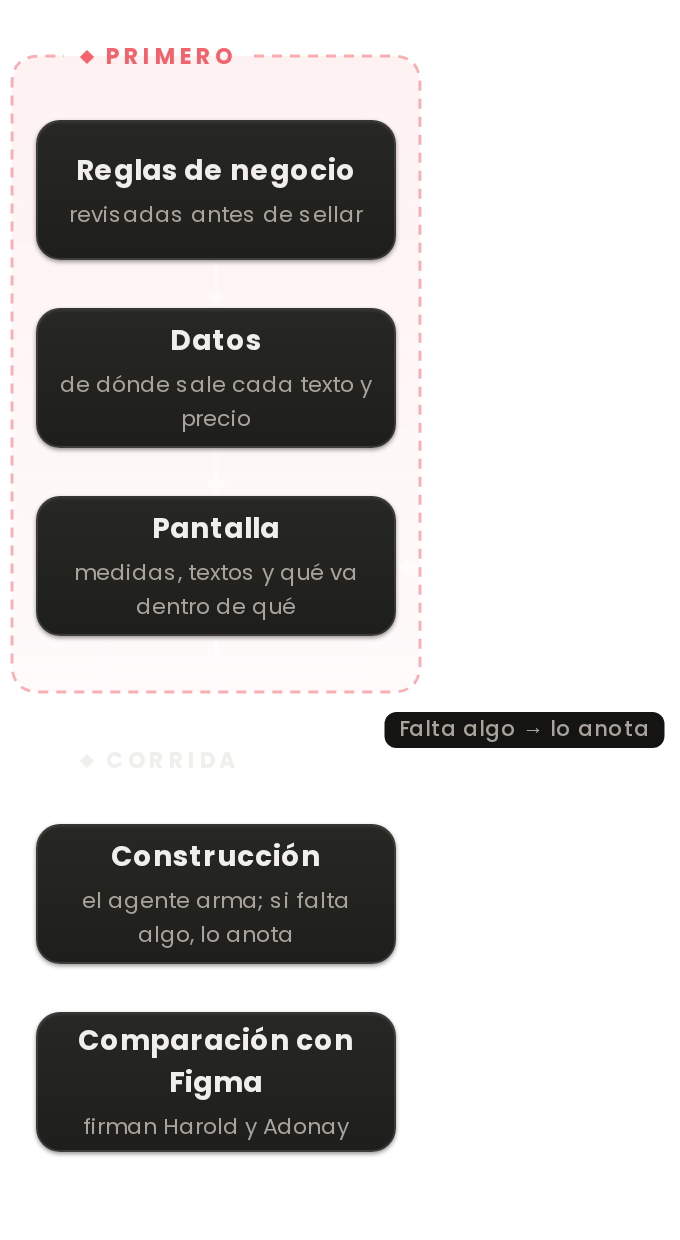
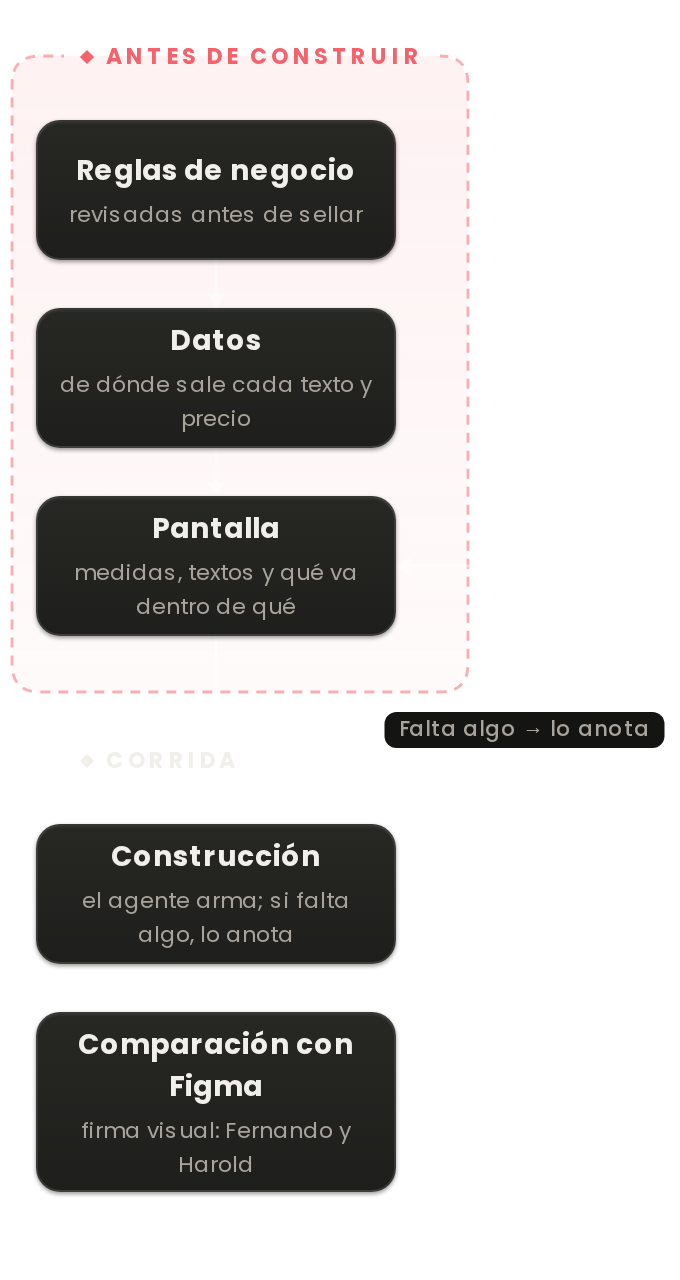
volaris-contratos-r2 r3: QA fixes

diff --git a/volaris-contratos-r2/index.html b/volaris-contratos-r2/index.html
@@ -4,9 +4,9 @@
 <meta charset="UTF-8">
 <meta name="viewport" content="width=device-width, initial-scale=1.0">
 <title>Volaris · Contratos diseño ↔ código: cómo vamos — Applaudo</title>
-<link rel="stylesheet" href="css/applaudo-deck.css?v=volaris-contratos-r2-r2-20261021">
-<link rel="stylesheet" href="css/volaris-contratos-r2.css?v=volaris-contratos-r2-r2-20261021">
-<link rel="stylesheet" href="css/responsive.css?v=volaris-contratos-r2-r2-20261021">
+<link rel="stylesheet" href="css/applaudo-deck.css?v=volaris-contratos-r2-r3-20261021">
+<link rel="stylesheet" href="css/volaris-contratos-r2.css?v=volaris-contratos-r2-r3-20261021">
+<link rel="stylesheet" href="css/responsive.css?v=volaris-contratos-r2-r3-20261021">
 </head>
 <body>
 <div class="progress" id="progress"></div>
@@ -98,7 +98,7 @@
             <ol>
               <li><span class="r2-ico ok">1</span><span>Caja con borde fino, esquinas medianas y espacio interno fijo.</span></li>
               <li><span class="r2-ico ok">2</span><span>Título grande, en negrita y color de marca.</span></li>
-              <li><span class="r2-ico ok">3</span><span>Cada opción con alto fijo y su ícono real de 24 px.</span></li>
+              <li><span class="r2-ico ok">3</span><span>Cada opción con alto fijo y su ícono real, con el tamaño exacto del ícono.</span></li>
               <li><span class="r2-ico ok">4</span><span>Textos exactos y de dónde sale cada uno.</span></li>
               <li><span class="r2-ico ok">5</span><span>El precio llega del sistema; si falta, se usa el de Basic.</span></li>
               <li><span class="r2-ico ok">6</span><span>Va dentro de la tarjeta Flex, antes del precio y del botón.</span></li>
@@ -121,13 +121,13 @@
     <div class="slide-head">
       <p class="eyebrow">Cómo se arma ahora</p>
       <h2 class="hl">Primero las reglas, <em>después la pantalla</em></h2>
-      <p class="lead">Si a la construcción le falta algo, lo anota y sigue. No inventa.</p>
+      <p class="lead">Si a la construcción le falta algo, el agente lo anota y sigue. No inventa.</p>
     </div>
     <div class="slide-body">
       <figure class="p2-diagram">
         <picture>
           <source media="(max-width:640px)" srcset="assets/diagrama-orden-movil.png">
-          <img src="assets/diagrama-orden.png" alt="Antes de construir: reglas de negocio, datos y pantalla. Luego, en la corrida: construcción y comparación con Figma, que firman Harold y Adonay. Si falta algo en la construcción, lo anota y sigue.">
+          <img src="assets/diagrama-orden.png" alt="Antes de construir: reglas de negocio, datos y pantalla. Luego, en la corrida: construcción y comparación con Figma, con la firma visual de Fernando y Harold. Si falta algo en la construcción, el agente lo anota y sigue.">
         </picture>
       </figure>
       <a class="p2-diagram-link d" href="diagrama-orden.html" target="_blank" rel="noopener">Ver diagrama interactivo ↗</a>
@@ -172,7 +172,7 @@
 </section>
 
 <!-- 6 · Tríptico -->
-<section class="slide slide-fit p2-slide r2-main" aria-label="Figma, corrida 1 y corrida 2">
+<section class="slide slide-fit p2-slide r2-main r2-fit" aria-label="Figma, corrida 1 y corrida 2">
   <div class="logo-sm" data-logo="dark"></div>
   <div class="inner inner-viewport compact">
     <div class="slide-head">
@@ -202,7 +202,7 @@
 </section>
 
 <!-- 7 · Galería -->
-<section class="slide slide-fit p2-slide r2-main" aria-label="Las 16 pantallas">
+<section class="slide slide-fit p2-slide r2-main r2-fit" aria-label="Las 16 pantallas">
   <div class="logo-sm" data-logo="dark"></div>
   <div class="inner inner-viewport compact">
     <div class="slide-head">
@@ -211,10 +211,6 @@
     </div>
     <div class="slide-body">
       <div class="r2-gal">
-        <div class="r2-gal-stage">
-          <figure><a data-g="fa" href="assets/galeria/g01-figma.png" target="_blank" rel="noopener"><img data-g="fi" src="assets/galeria/g01-figma.png" alt="Figma: Tarjeta Flex sin elegir"></a><span class="tag">Figma</span></figure>
-          <figure><a data-g="ra" href="assets/galeria/g01-r2.png" target="_blank" rel="noopener"><img data-g="ri" src="assets/galeria/g01-r2.png" alt="Corrida 2: Tarjeta Flex sin elegir"></a><span class="tag hi">Corrida 2</span></figure>
-        </div>
         <div class="r2-gal-cap">
           <button class="r2-gal-btn" type="button" data-g="prev" aria-label="Pantalla anterior">‹</button>
           <span class="n" data-g="n">01 / 16</span>
@@ -222,6 +218,11 @@
           <button class="r2-gal-btn" type="button" data-g="next" aria-label="Pantalla siguiente">›</button>
         </div>
         <div class="r2-gal-chips" data-g="chips" aria-label="Elegir pantalla (punto = todavía hay una diferencia)"></div>
+        <div class="r2-gal-stage" data-g="stage">
+          <figure><a data-g="fa" href="assets/galeria/g01-figma.png" target="_blank" rel="noopener"><img data-g="fi" src="assets/galeria/g01-figma.png" alt="Figma: Tarjeta Flex sin elegir"></a><span class="tag">Figma</span></figure>
+          <figure><a data-g="ra" href="assets/galeria/g01-r2.png" target="_blank" rel="noopener"><img data-g="ri" src="assets/galeria/g01-r2.png" alt="Corrida 2: Tarjeta Flex sin elegir"></a><span class="tag hi">Corrida 2</span></figure>
+        </div>
+        <p class="r2-gal-hint" data-g="hint" hidden>Pantalla larga: desplázate dentro de las imágenes para ver el resto ↓ · Clic para verla completa</p>
       </div>
     </div>
   </div>
@@ -286,8 +287,8 @@
   <div class="logo-sm" data-logo="dark"></div>
   <div class="inner inner-viewport compact">
     <div class="slide-head">
-      <p class="eyebrow">Aviso honesto</p>
-      <h2 class="hl">Se ven bien, pero <em>falta conectarlas</em></h2>
+      <p class="eyebrow">Antes de seguir</p>
+      <h2 class="hl">Un aviso <em>honesto</em></h2>
       <p class="lead">Las pantallas se ven bien, pero falta conectarlas bien a los datos reales y probarlas en un teléfono.</p>
     </div>
     <div class="slide-body">
@@ -324,7 +325,7 @@
         <div class="r2-card hi"><span class="lab">1 · Conexión</span><h4>Un contrato de conexión</h4><p>Cada dato con respaldo se usa de verdad en la app, con una prueba que lo confirma. Y una regla clara para cuando no llega Flex.</p></div>
         <div class="r2-card"><span class="lab">2 · Detalles</span><h4>Sellar los detalles visuales</h4>
           <ul><li>La tabla de comparación, celda por celda</li><li>El check verde, junto al título</li><li>La barra de arriba</li><li>El precio sin asteriscos</li><li>La pantalla «cargando»</li><li>La tarifa Flex v.Club</li></ul></div>
-        <div class="r2-card"><span class="lab">3 · Medición</span><h4>Medir al mismo ancho que Figma</h4><p>Las capturas de prueba se toman a 360, el mismo ancho del diseño, para comparar medida por medida.</p></div>
+        <div class="r2-card"><span class="lab">3 · Medición</span><h4>Medir al mismo ancho que Figma</h4><p>Las capturas de prueba se toman al mismo ancho que Figma, para comparar medida por medida.</p></div>
       </div>
       <div class="r2-band hi"><p><strong>Ya decidido por Adonay:</strong> la tabla de comparación de Zero a Flex y el paso de Flex a Plus entran en la versión 2.1. La tabla salió distinta porque no estaba en el contrato y se armó con datos de prueba; por eso ahora se sella celda por celda.</p></div>
     </div>
@@ -370,7 +371,7 @@
         <span class="road-arrow" aria-hidden="true">→</span>
         <div class="step-card"><span class="num">2</span><h4>Contrato 2.1</h4><p>Con la tabla celda por celda, el paso a Plus, la conexión y la medición al ancho de Figma.</p></div>
         <span class="road-arrow" aria-hidden="true">→</span>
-        <div class="step-card"><span class="num">3</span><h4>Corrida 3</h4><p>La misma feature, solo con el contrato firmado.</p></div>
+        <div class="step-card"><span class="num">3</span><h4>Corrida 3</h4><p>La misma funcionalidad, solo con el contrato firmado.</p></div>
         <span class="road-arrow" aria-hidden="true">→</span>
         <div class="step-card hi"><span class="num">4</span><h4>En un teléfono</h4><p>Probar con datos reales, no solo con capturas.</p></div>
       </div>
@@ -447,7 +448,7 @@
   <button class="nav-btn" id="next" aria-label="Diapositiva siguiente">›</button>
 </nav>
 
-<script src="js/applaudo-deck.js?v=volaris-contratos-r2-r2-20261021"></script>
-<script src="js/galeria.js?v=volaris-contratos-r2-r2-20261021"></script>
+<script src="js/applaudo-deck.js?v=volaris-contratos-r2-r3-20261021"></script>
+<script src="js/galeria.js?v=volaris-contratos-r2-r3-20261021"></script>
 </body>
 </html>

diff --git a/volaris-contratos-r2/js/galeria.js b/volaris-contratos-r2/js/galeria.js
@@ -13,7 +13,7 @@
     ['10','De Zero a Flex · selector a medias','«Confirmar» como en Figma. Figma muestra 5 beneficios; acordamos 4.',0],
     ['11','Éxito','Fondo verde, ícono de celebración y «Por pasajero».',0],
     ['12','Éxito · de Zero a Flex','El texto de éxito es el de Figma.',0],
-    ['13','Comparación Zero vs Flex','La fila de check-in no coincide, los textos se cortan, la ✕ sale negra y el precio trae asteriscos. La tabla no estaba en el contrato y se armó con datos de prueba; por eso ahora se sella celda por celda.',1],
+    ['13','Comparación de Zero a Flex','La fila de check-in no coincide, los textos se cortan, la ✕ sale negra y el precio trae asteriscos. La tabla no estaba en el contrato y se armó con datos de prueba; por eso ahora se sella celda por celda.',1],
     ['14','Mejorar a Flex · 0 de 2','La barra de arriba trae ← y el título a la izquierda; Figma usa ‹ y el título centrado.',1],
     ['15','Mejorar a Flex · 1 de 2','El selector va dentro de la tarjeta, como en Figma.',0],
     ['16','Mejorar a Flex · completo','Mensaje de éxito y precio bien; la barra de arriba sigue distinta.',1]
@@ -29,11 +29,47 @@
     function show(k){i=(k+G.length)%G.length;var g=G[i],f='assets/galeria/g'+g[0]+'-figma.png',r='assets/galeria/g'+g[0]+'-r2.png';
       fi.src=f;fa.href=f;ri.src=r;ra.href=r;fi.alt='Figma: '+g[1];ri.alt='Corrida 2: '+g[1];
       n.textContent=g[0]+' / 16';t.textContent=g[1];d.textContent=g[2];
-      [].forEach.call(chips.children,function(c,k2){c.setAttribute('aria-current',k2===i?'true':'false')});}
+      [].forEach.call(chips.children,function(c,k2){c.setAttribute('aria-current',k2===i?'true':'false')});
+      fit();}
+    var stage=root.querySelector('[data-g="stage"]'),hint=root.querySelector('[data-g="hint"]'),MIN=0.72;
+    /* Desktop: size both images at one shared scale. Fit the stage when that keeps them >= 72% of their
+       natural size; otherwise keep 72% and let the stage scroll inside (both images move together). */
+    function fit(){
+      var imgs=[fi,ri];
+      if(!imgs.every(function(im){return im.complete&&im.naturalWidth})){imgs.forEach(function(im){im.addEventListener('load',fit,{once:true})});return;}
+      if(innerWidth<=640||!root.closest('.slide').classList.contains('active')){imgs.forEach(function(im){im.style.width=im.style.height=''});stage.classList.remove('tall');hint.hidden=true;return;}
+      stage.classList.remove('tall');
+      var cs=getComputedStyle(stage),gap=parseFloat(cs.columnGap)||20,tag=stage.querySelector('.tag').offsetHeight+6;
+      var W=stage.clientWidth-gap-4,H=stage.clientHeight-tag-4;
+      var w=fi.naturalWidth+ri.naturalWidth,h=Math.max(fi.naturalHeight,ri.naturalHeight);
+      /* wide cards (01, 11, 12) are exported at ~2x, so their text stays large at a lower scale */
+      var min=fi.naturalWidth>600?0.45:MIN;
+      var s=Math.min(1,W/w,Math.max(H/h,min));
+      imgs.forEach(function(im){im.style.width=Math.round(im.naturalWidth*s)+'px';im.style.height=Math.round(im.naturalHeight*s)+'px'});
+      var tall=h*s>H+1;stage.classList.toggle('tall',tall);hint.hidden=!tall;stage.scrollTop=0;
+      root.dataset.scale=s.toFixed(3);
+    }
+    addEventListener('resize',fit);
+    new MutationObserver(function(){fit()}).observe(root.closest('.slide'),{attributes:true,attributeFilter:['class']});
     root.querySelector('[data-g="prev"]').addEventListener('click',function(e){e.stopPropagation();show(i-1)});
     root.querySelector('[data-g="next"]').addEventListener('click',function(e){e.stopPropagation();show(i+1)});
     show(0);
     window.R2Galeria={show:show};
   }
   document.querySelectorAll('.r2-gal').forEach(init);
+  /* Triptych: one shared height (--T) that fits the space between the title and the pill on desktop. */
+  document.querySelectorAll('.r2-tri').forEach(function(tri){
+    var slide=tri.closest('.slide'),R=(712+785+785)/1374;
+    function fitT(){
+      if(innerWidth<=640||!slide.classList.contains('active')){tri.style.removeProperty('--T');return;}
+      var body=tri.parentElement,cap=0;
+      tri.querySelectorAll('figcaption').forEach(function(c){cap=Math.max(cap,c.offsetHeight)});
+      var gap=parseFloat(getComputedStyle(tri).columnGap)||24;
+      var T=Math.min(body.clientHeight-cap-14,(body.clientWidth-2*gap-8)/R,760);
+      tri.style.setProperty('--T',Math.max(160,Math.floor(T))+'px');
+    }
+    addEventListener('resize',fitT);
+    new MutationObserver(fitT).observe(slide,{attributes:true,attributeFilter:['class']});
+    fitT();
+  });
 })();

diff --git a/volaris-contratos-r2/css/volaris-contratos-r2.css b/volaris-contratos-r2/css/volaris-contratos-r2.css
@@ -306,9 +306,36 @@
    over content, so they are hidden there; the nav pill keeps the slide counter. */
 @media (max-height:800px){ #deck .foot{display:none!important} }
 @media (max-height:700px) and (min-width:641px){
-  #deck > .slide:first-child .big{font-size:clamp(2.4rem,min(6vw,10vh),3.8rem)}
   #deck > .slide:first-child .inner.center > p:not(.eyebrow){margin-top:18px!important}
   #deck > .slide:first-child .inner.center > div{margin-top:22px!important}
 }
-@media (max-width:640px){ .r2-gal-cap{order:-1} .r2-gal-chips{order:-1} }
-@media (max-height:800px){ .r2-gal-cap{order:-1} }
+
+/* ===== r3: s06 and s07 fit the viewport on desktop (no slide scroll, nothing under the pill) ===== */
+.r2-gal-hint{font-size:.8125rem;color:var(--gray);text-align:center;max-width:none;margin:0}
+@media (min-width:641px){
+  .slide.r2-fit.active{overflow:hidden!important}
+  #deck > .slide.r2-fit > .inner.inner-viewport{height:100%!important;max-height:100%!important;min-height:0!important;overflow:hidden!important;
+    display:flex!important;flex-direction:column;padding-bottom:calc(var(--nav-safe) + 10px)!important}
+  #deck > .slide.r2-fit > .inner.inner-viewport::after{display:none!important}
+  .slide.r2-fit .slide-body{flex:1 1 auto!important;min-height:0!important;overflow:hidden!important;display:flex!important;flex-direction:column;justify-content:flex-start!important}
+  .r2-fit .r2-tri{flex:1 1 auto;min-height:0;align-items:flex-start}
+  .r2-fit .r2-gal{flex:1 1 auto;min-height:0;gap:8px}
+  .r2-fit .r2-gal-cap,.r2-fit .r2-gal-chips{order:0}
+  .r2-fit .r2-gal-stage{flex:1 1 auto;min-height:0;overflow:hidden;align-items:start;display:flex;justify-content:center}
+  .r2-fit .r2-gal-stage.tall{overflow-y:auto;overscroll-behavior:contain;border-radius:12px}
+  .r2-fit .r2-gal-stage figure{flex:none}
+  .r2-fit .r2-gal-stage a{height:auto;width:auto}
+  .r2-fit .r2-gal-stage img{max-width:none;max-height:none}
+  .r2-fit .r2-gal-cap{padding:6px 12px}
+}
+@media (max-height:700px) and (min-width:641px){
+  .r2-fit .slide-head .eyebrow{display:none}
+}
+/* Phone: 44x44 tap targets for the gallery chips */
+@media (max-width:640px){
+  .r2-gal-chips{gap:8px}
+  .r2-gal-chips button{min-width:44px;height:44px;font-size:.875rem}
+}
+@media (max-height:700px) and (min-width:641px){
+  #deck > .slide:first-child .big{font-size:clamp(2.4rem,min(6.5vw,12vh),4.5rem)}
+}

diff --git a/volaris-contratos-r2/diagrama-orden-movil.html b/volaris-contratos-r2/diagrama-orden-movil.html
@@ -51,19 +51,19 @@ svg#links{position:absolute;inset:0;width:100%;height:100%;overflow:visible;poin
 <script id="diagram-data" type="application/json">
 {
  "width": 340,
- "height": 620,
+ "height": 640,
  "eyebrow": "Volaris · Fare Flex",
  "title": "El orden nuevo",
- "subtitle": "Toca un nodo para ver qué pasa en esa etapa.",
+ "subtitle": "Toca una etapa para ver qué pasa en ella.",
  "caption": "Nada se construye hasta que reglas, datos y pantalla están definidos.",
  "groups": [
   {
    "id": "antes",
-   "label": "Primero",
+   "label": "Antes de construir",
    "accent": true,
    "x": 6,
    "y": 28,
-   "w": 204,
+   "w": 228,
    "h": 318,
    "tip": "Se cierra antes de que el agente escriba nada"
   },
@@ -73,8 +73,8 @@ svg#links{position:absolute;inset:0;width:100%;height:100%;overflow:visible;poin
    "accent": false,
    "x": 6,
    "y": 380,
-   "w": 204,
-   "h": 224,
+   "w": 228,
+   "h": 244,
    "tip": "La construcción y su comparación con Figma"
   }
  ],
@@ -126,13 +126,13 @@ svg#links{position:absolute;inset:0;width:100%;height:100%;overflow:visible;poin
   {
    "id": "p",
    "label": "Comparación con Figma",
-   "caption": "firman Harold y Adonay",
-   "desc": "Se compara cada pantalla contra Figma. Harold y Adonay firman el resultado.",
+   "caption": "firma visual: Fernando y Harold",
+   "desc": "Se compara cada pantalla contra Figma. Fernando y Harold dan la firma visual; el sello del contrato es de Adonay.",
    "group": "corrida",
    "x": 18,
    "y": 506,
    "w": 180,
-   "h": 70
+   "h": 90
   }
  ],
  "edges": [

diff --git a/volaris-contratos-r2/diagrama-orden.html b/volaris-contratos-r2/diagrama-orden.html
@@ -1,5 +1,8 @@
 <!doctype html>
-<html lang="es"><head><meta charset="utf-8"><meta name="viewport" content="width=device-width,initial-scale=1">
+<html lang="es"><head>
+<script>/* narrow screens: the wide layout would shrink text below ~10px, so use the vertical version */
+if(document.documentElement.clientWidth<1100&&!/[?&]ancho=1/.test(location.search)){location.replace("diagrama-orden-movil.html"+location.hash)}</script>
+<meta charset="utf-8"><meta name="viewport" content="width=device-width,initial-scale=1">
 <title>Diagrama</title>
 <link rel="preconnect" href="https://fonts.googleapis.com"><link rel="preconnect" href="https://fonts.gstatic.com" crossorigin>
 <link href="https://fonts.googleapis.com/css2?family=Poppins:wght@400;500;600;700&display=swap" rel="stylesheet">
@@ -126,8 +129,8 @@ svg#links{position:absolute;inset:0;width:100%;height:100%;overflow:visible;poin
   {
    "id": "p",
    "label": "Comparación con Figma",
-   "caption": "firman Harold y Adonay",
-   "desc": "Se compara cada pantalla contra Figma. Harold y Adonay firman el resultado.",
+   "caption": "firma visual: Fernando y Harold",
+   "desc": "Se compara cada pantalla contra Figma. Fernando y Harold dan la firma visual; el sello del contrato es de Adonay.",
    "group": "corrida",
    "x": 1092,
    "y": 68,

diff --git a/volaris-contratos-r2/diagrama-ejecucion.html b/volaris-contratos-r2/diagrama-ejecucion.html
@@ -1,5 +1,8 @@
 <!doctype html>
-<html lang="es"><head><meta charset="utf-8"><meta name="viewport" content="width=device-width,initial-scale=1">
+<html lang="es"><head>
+<script>/* narrow screens: the wide layout would shrink text below ~10px, so use the vertical version */
+if(document.documentElement.clientWidth<1100&&!/[?&]ancho=1/.test(location.search)){location.replace("diagrama-ejecucion-movil.html"+location.hash)}</script>
+<meta charset="utf-8"><meta name="viewport" content="width=device-width,initial-scale=1">
 <title>Diagrama</title>
 <link rel="preconnect" href="https://fonts.googleapis.com"><link rel="preconnect" href="https://fonts.gstatic.com" crossorigin>
 <link href="https://fonts.googleapis.com/css2?family=Poppins:wght@400;500;600;700&display=swap" rel="stylesheet">

diff --git a/volaris-contratos-r2/js/applaudo-deck.js b/volaris-contratos-r2/js/applaudo-deck.js
@@ -1,6 +1,6 @@
 /* Applaudo deck engine — keyboard, pill nav, logos, optional diagram iframe */
 (function (global) {
-  var APPLAUDO_DECK_BUILD = 'volaris-contratos-r2-r2-20261021';
+  var APPLAUDO_DECK_BUILD = 'volaris-contratos-r2-r3-20261021';
   global.APPLAUDO_DECK_BUILD = APPLAUDO_DECK_BUILD;
   var LOGO_L = [
     'M207.2,105.3l-6.1-15.4h-30.4l-5.8,15.4h-20.6l32.9-78.6h18.4l32.6,78.6h-21.1,0ZM186.1,47.7l-10,27h19.7l-9.8-27Z',

diff --git a/volaris-contratos-r2/diagrama-ejecucion-movil.html b/volaris-contratos-r2/diagrama-ejecucion-movil.html
@@ -54,7 +54,7 @@ svg#links{position:absolute;inset:0;width:100%;height:100%;overflow:visible;poin
  "height": 664,
  "eyebrow": "Volaris · Fare Flex",
  "title": "Cómo lo ejecutamos",
- "subtitle": "Toca un nodo para ver el detalle.",
+ "subtitle": "Toca un paso para ver el detalle.",
  "caption": "Operado por Jean con la cuenta de Applaudo de Adonay.",
  "groups": [
   {
